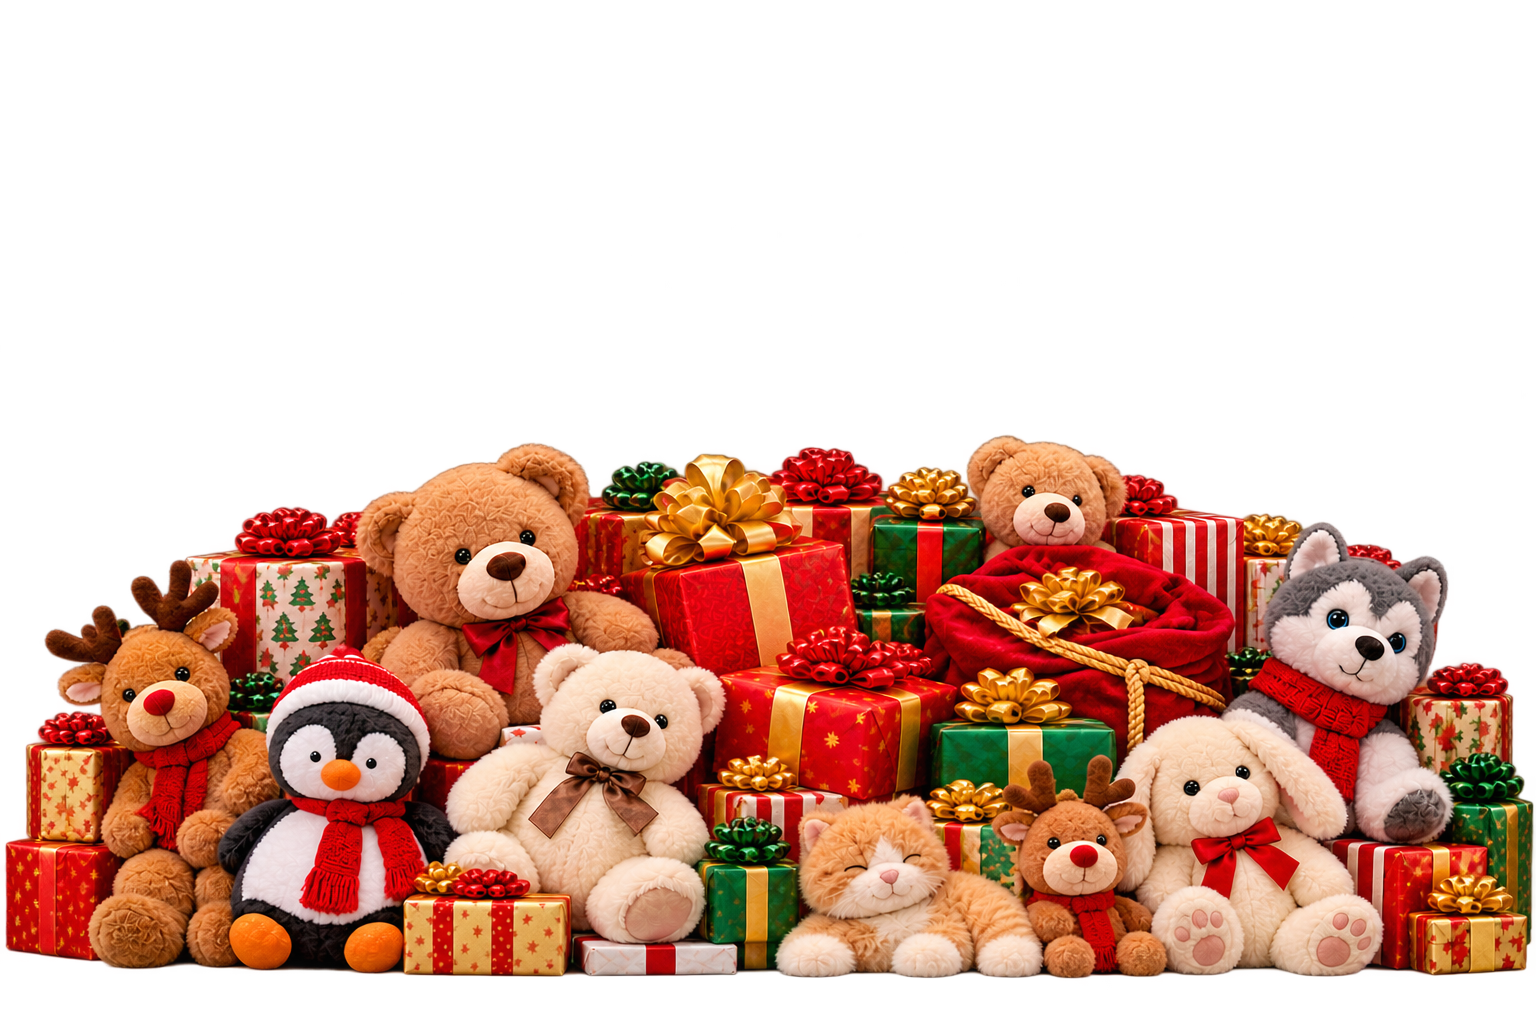
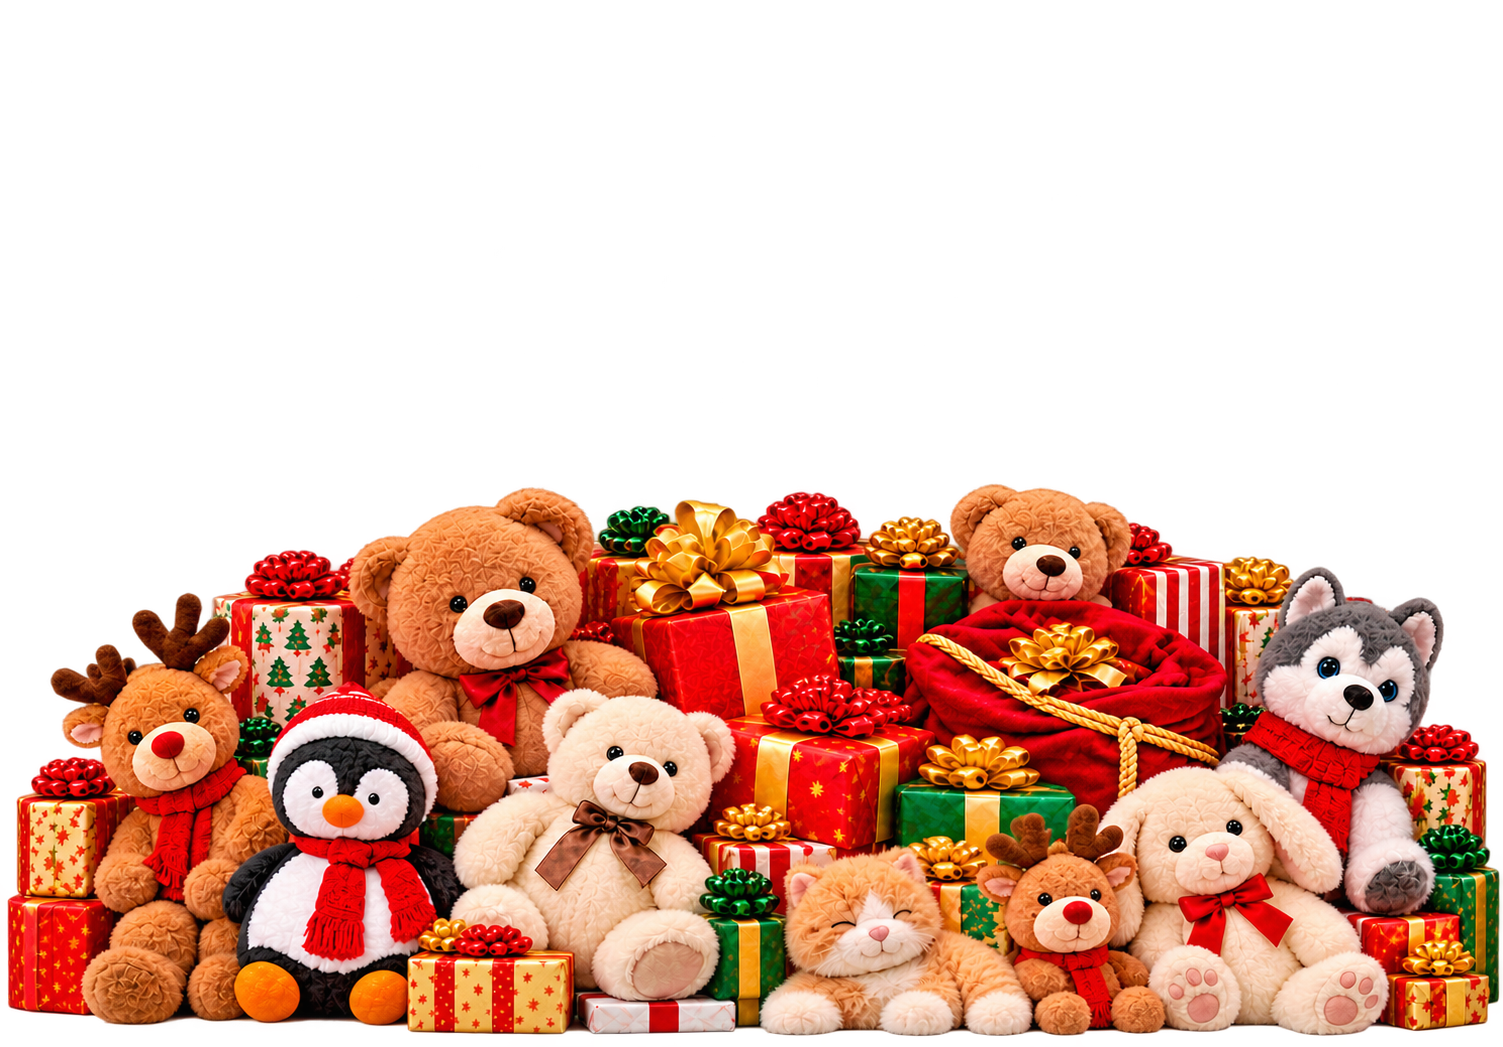
arrumei o parallax e melhorei o index

diff --git a/js/script.js b/js/script.js
@@ -1,3 +1,9 @@
+// =====================================================
+// script.js único do site Mimo Polar
+// Cada bloco só roda se os elementos dele existirem na página,
+// então o mesmo arquivo funciona em index, produtos, galeria, etc.
+// =====================================================
+
 // ===== Música de fundo =====
 const musica = new Audio("audio/musica-natal.mp3");
 musica.loop = true;
@@ -5,20 +11,22 @@ musica.volume = 0.3;
 
 const botaoMusica = document.getElementById("btn-musica");
 
-botaoMusica.addEventListener("click", async () => {
-  if (musica.paused) {
-    try {
-      await musica.play();
-      botaoMusica.textContent = "Pausar música";
-    } catch (erro) {
-      console.error("Não foi possível reproduzir a música natalina.", erro);
-      botaoMusica.textContent = "Áudio indisponível";
+if (botaoMusica) {
+  botaoMusica.addEventListener("click", async () => {
+    if (musica.paused) {
+      try {
+        await musica.play();
+        botaoMusica.textContent = "Pausar música";
+      } catch (erro) {
+        console.error("Não foi possível reproduzir a música natalina.", erro);
+        botaoMusica.textContent = "Áudio indisponível";
+      }
+    } else {
+      musica.pause();
+      botaoMusica.textContent = "Tocar música";
     }
-  } else {
-    musica.pause();
-    botaoMusica.textContent = "Tocar música";
-  }
-});
+  });
+}
 
 function tocarSino() {
   const som = new Audio("audio/sino.mp3");
@@ -28,7 +36,7 @@ function tocarSino() {
   });
 }
 
-// ===== Busca e filtro de produtos =====
+// ===== Busca e filtro de produtos (só na página de produtos) =====
 const campoBusca = document.getElementById("busca");
 const seletorCategoria = document.getElementById("categoria");
 const contadorProdutos = document.getElementById("contador");
@@ -42,11 +50,15 @@ function filtrar() {
     return combinaNome && combinaCategoria;
   });
   mostrarProdutos(resultado);
-  contadorProdutos.textContent = `Mostrando ${resultado.length} de ${produtos.length} produtos`;
+  if (contadorProdutos) {
+    contadorProdutos.textContent = `Mostrando ${resultado.length} de ${produtos.length} produtos`;
+  }
 }
 
-campoBusca.addEventListener("input", filtrar);
-seletorCategoria.addEventListener("change", filtrar);
+if (campoBusca && seletorCategoria) {
+  campoBusca.addEventListener("input", filtrar);
+  seletorCategoria.addEventListener("change", filtrar);
+}
 
 // ===== Carrinho =====
 let carrinho = JSON.parse(localStorage.getItem("carrinho")) || [];
@@ -68,12 +80,16 @@ function atualizarCarrinho() {
   document.querySelectorAll("[data-qtd-carrinho]").forEach((el) => {
     el.textContent = carrinho.length;
   });
-  document.getElementById("total-carrinho").textContent = formatarPreco(total);
+
+  const totalCarrinho = document.getElementById("total-carrinho");
+  if (totalCarrinho && typeof formatarPreco === "function") {
+    totalCarrinho.textContent = formatarPreco(total);
+  }
 }
 
-document
-  .getElementById("lista-produtos")
-  .addEventListener("click", (evento) => {
+const listaProdutos = document.getElementById("lista-produtos");
+if (listaProdutos) {
+  listaProdutos.addEventListener("click", (evento) => {
     if (evento.target instanceof Element) {
       const botao = evento.target.closest(".btn-comprar");
       if (botao) {
@@ -82,16 +98,20 @@ document
       }
     }
   });
+}
 
-document.getElementById("limpar-carrinho").addEventListener("click", () => {
-  carrinho = [];
-  localStorage.setItem("carrinho", JSON.stringify(carrinho));
-  atualizarCarrinho();
-});
+const botaoLimparCarrinho = document.getElementById("limpar-carrinho");
+if (botaoLimparCarrinho) {
+  botaoLimparCarrinho.addEventListener("click", () => {
+    carrinho = [];
+    localStorage.setItem("carrinho", JSON.stringify(carrinho));
+    atualizarCarrinho();
+  });
+}
 
 atualizarCarrinho();
 
-// ===== Parallax =====
+// ===== Parallax antigo (cena .parallax-natal, se ainda existir em alguma página) =====
 const florestaLonge = document.querySelector(".parallax-floresta-distante");
 const florestaProxima = document.querySelector(".parallax-floresta-proxima");
 const papaiNoelTreno = document.querySelector(".parallax-papai-noel");
@@ -218,27 +238,34 @@ if (
   iniciarIntervalo();
 }
 
-const logo = document.getElementById('logos');
-const papai = document.getElementById('papai');
-const pelucia = document.getElementById('pelucia');
+// ===== Parallax da home (logo, pelúcia e Papai Noel) =====
+const logoHome = document.getElementById("logos");
+const papaiHome = document.getElementById("papai");
+const peluciaHome = document.getElementById("pelucia");
 
-let ticking = false; 
+if (logoHome && papaiHome && peluciaHome) {
+  let homeAgendado = false;
 
-function updateParallax() {
-    const value = window.scrollY; 
+  function atualizarParallaxHome() {
+    const rolagem = window.scrollY;
 
-    logo.style.transform = `translatex(${value * -1}px)`;
-    papai.style.transform = `translateX(-50%) translateY(${value * 0.5}px)`;
-    pelucia.style.transform = `translateY(${value * 1}px)`;
-    neve.style.transform = `translateY(${value * 1}px)`;
+    logoHome.style.transform = `translateX(${rolagem * -1}px)`;
+    papaiHome.style.transform = `translateX(-50%) translateY(${rolagem * 0.5}px)`;
+    peluciaHome.style.transform = `translateY(${rolagem * 0.7}px)`;
 
-    ticking = false;
+    homeAgendado = false;
+  }
+
+  window.addEventListener(
+    "scroll",
+    () => {
+      if (!homeAgendado) {
+        window.requestAnimationFrame(atualizarParallaxHome);
+        homeAgendado = true;
+      }
+    },
+    { passive: true },
+  );
+
+  atualizarParallaxHome();
 }
-
-window.addEventListener('scroll', () => {
-    if (!ticking) {
-
-        window.requestAnimationFrame(updateParallax);
-        ticking = true;
-    }
-});

diff --git a/index.html b/index.html
@@ -15,9 +15,8 @@
       rel="stylesheet"
     />
     <link rel="stylesheet" href="css/style.css" />
-    <link rel="stylesheet" href="css/responsavidade.css" />
   </head>
-  <body>
+  <body class="home">
     <header class="cabecalho">
       <a
         class="marca"
@@ -40,48 +39,20 @@
     </header>
 
     <main>
-      <section
-        class="parallax-natal"
-        aria-label="Bem-vindo à Mimo Polar, Papai Noel voando sobre uma floresta nevada"
-      >
-        <div class="parallax-palco">
-          <div class="ceu-estrelado" aria-hidden="true"></div>
-          <div class="parallax-intro">
-            <h1>Bem-vindo à Mimo Polar!</h1>
-            <p>Descubra a magia do Natal com nossas pelúcias natalinas!</p>
-          </div>
-          <img
-            class="parallax-imagem parallax-floresta-distante"
-            src="img/banners/floresta-longe.webp"
-            alt=""
-            aria-hidden="true"
-            data-velocidade="0.05"
-          />
-          <img
-            class="parallax-imagem parallax-floresta-proxima"
-            src="img/banners/floresta-proxima.webp"
-            alt=""
-            aria-hidden="true"
-            data-velocidade="0.13"
-          />
-          <img
-            class="parallax-imagem parallax-chao"
-            src="img/banners/neve.webp"
-            alt=""
-            aria-hidden="true"
-          />
-          <img
-            class="parallax-imagem parallax-papai-noel"
-            src="img/banners/papai-noel-treno.webp"
-            alt="Papai Noel voando em seu trenó"
-            data-velocidade="1.1"
-            data-eixo="x"
-          />
-        </div>
+        <section class="parallax">
+          <img src="img/banners/pelucia.png" id="pelucia" alt="" />
+          <div id="neve"></div>
+          <img src="img/banners/papainoel.png" id="papai" alt="" />
+          <img src="img/banners/logo.png" id="logos" alt="" />
+        </section>
+
+
+      <section class="sec">
+        <h1>Bem-vindo à Mimo Polar!</h1>
+        <p>Descubra a magia do Natal com nossas pelúcias natalinas!</p>
       </section>
     </main>
-    <script src="js/parallax.js" defer></script>
-    <script src="js/audio.js" defer></script>
+
     <footer class="rodape">
       <div class="container rodape-conteudo">
         <a class="marca marca-rodape" href="index.html"
@@ -93,7 +64,13 @@
           <a href="contato.html">Fale com a gente</a>
         </nav>
         <small>&copy; 2026 Mimo Polar. Projeto acadêmico.</small>
+        <small
+          >feito por: Murilo Andrade Perine, Samuel Luz e Rafael Yamakishi
+          Klava</small
+        >
       </div>
     </footer>
+
+    <script src="js/script.js"></script>
   </body>
 </html>

diff --git a/css/style.css b/css/style.css
@@ -521,6 +521,16 @@ body > main {
     80px 120px;
   animation: neve-caindo 9s linear infinite;
 }
+
+#neve {
+  z-index: 0;
+}
+#logos,
+#pelucia,
+#papai {
+  z-index: 1;
+}
+
 .parallax-palco::after {
   background-image:
     radial-gradient(
@@ -903,7 +913,7 @@ html {
 }
 
 body {
-  background: linear-gradient(var(--verde) 0%, #d7fcd1 80%);
+background: linear-gradient(#173447 0%, #3d7686 65%, #cfe8e2 100%);
   min-height: 100vh;
   overflow-x: hidden;
 }
@@ -1022,9 +1032,9 @@ header {
 #papai {
   position: absolute;
   bottom: 0;
-  right: 58%;
+  right: 62%;
   transform: translateX(-50%);
-  width: 32%;
+  width: 28%;
   pointer-events: none;
   user-select: none;
 }
@@ -1041,7 +1051,7 @@ header {
 .sec {
   position: relative;
   padding: 100px;
-  background: var(--creme);
+  background: var(--vermelho);
 }
 
 .sec h1 {
